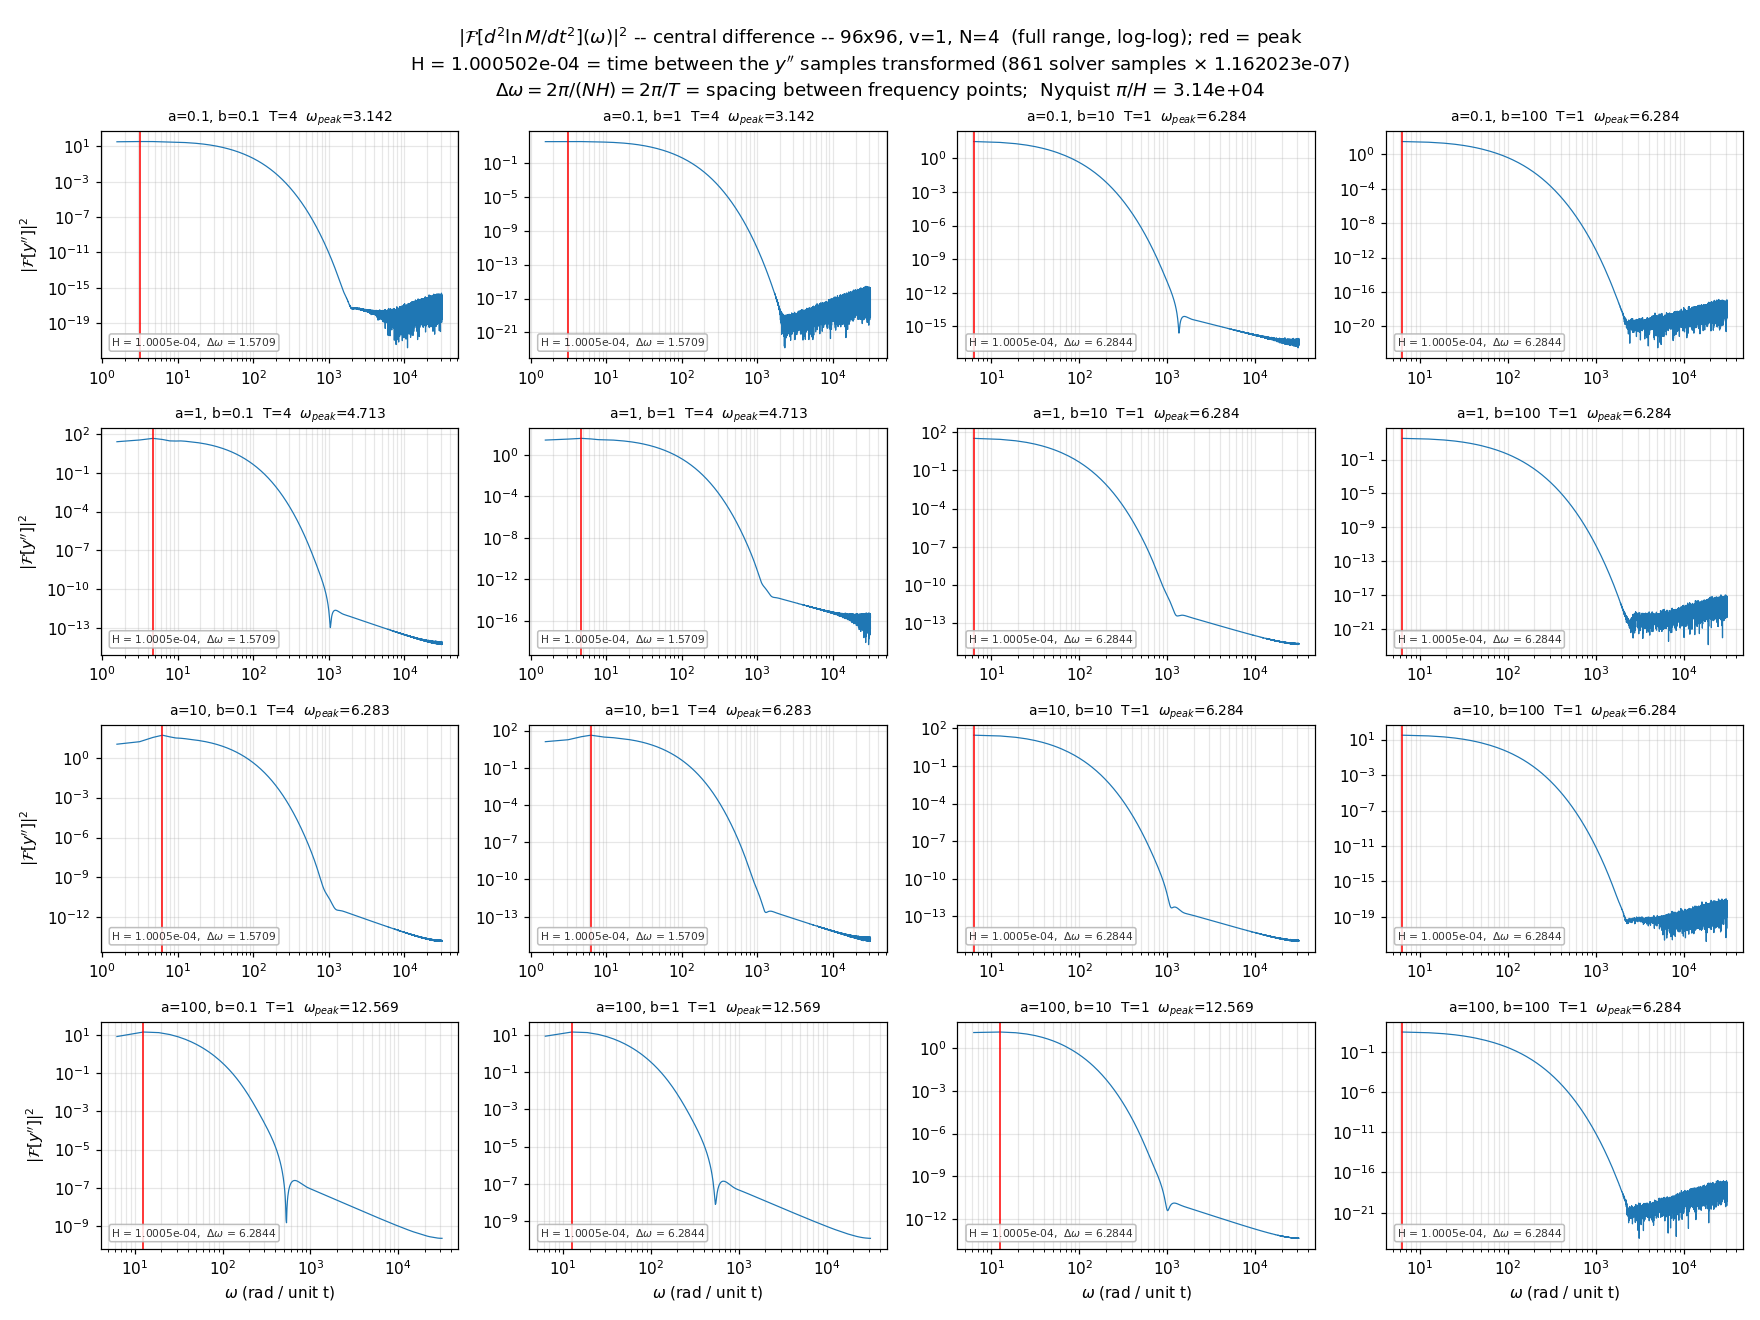
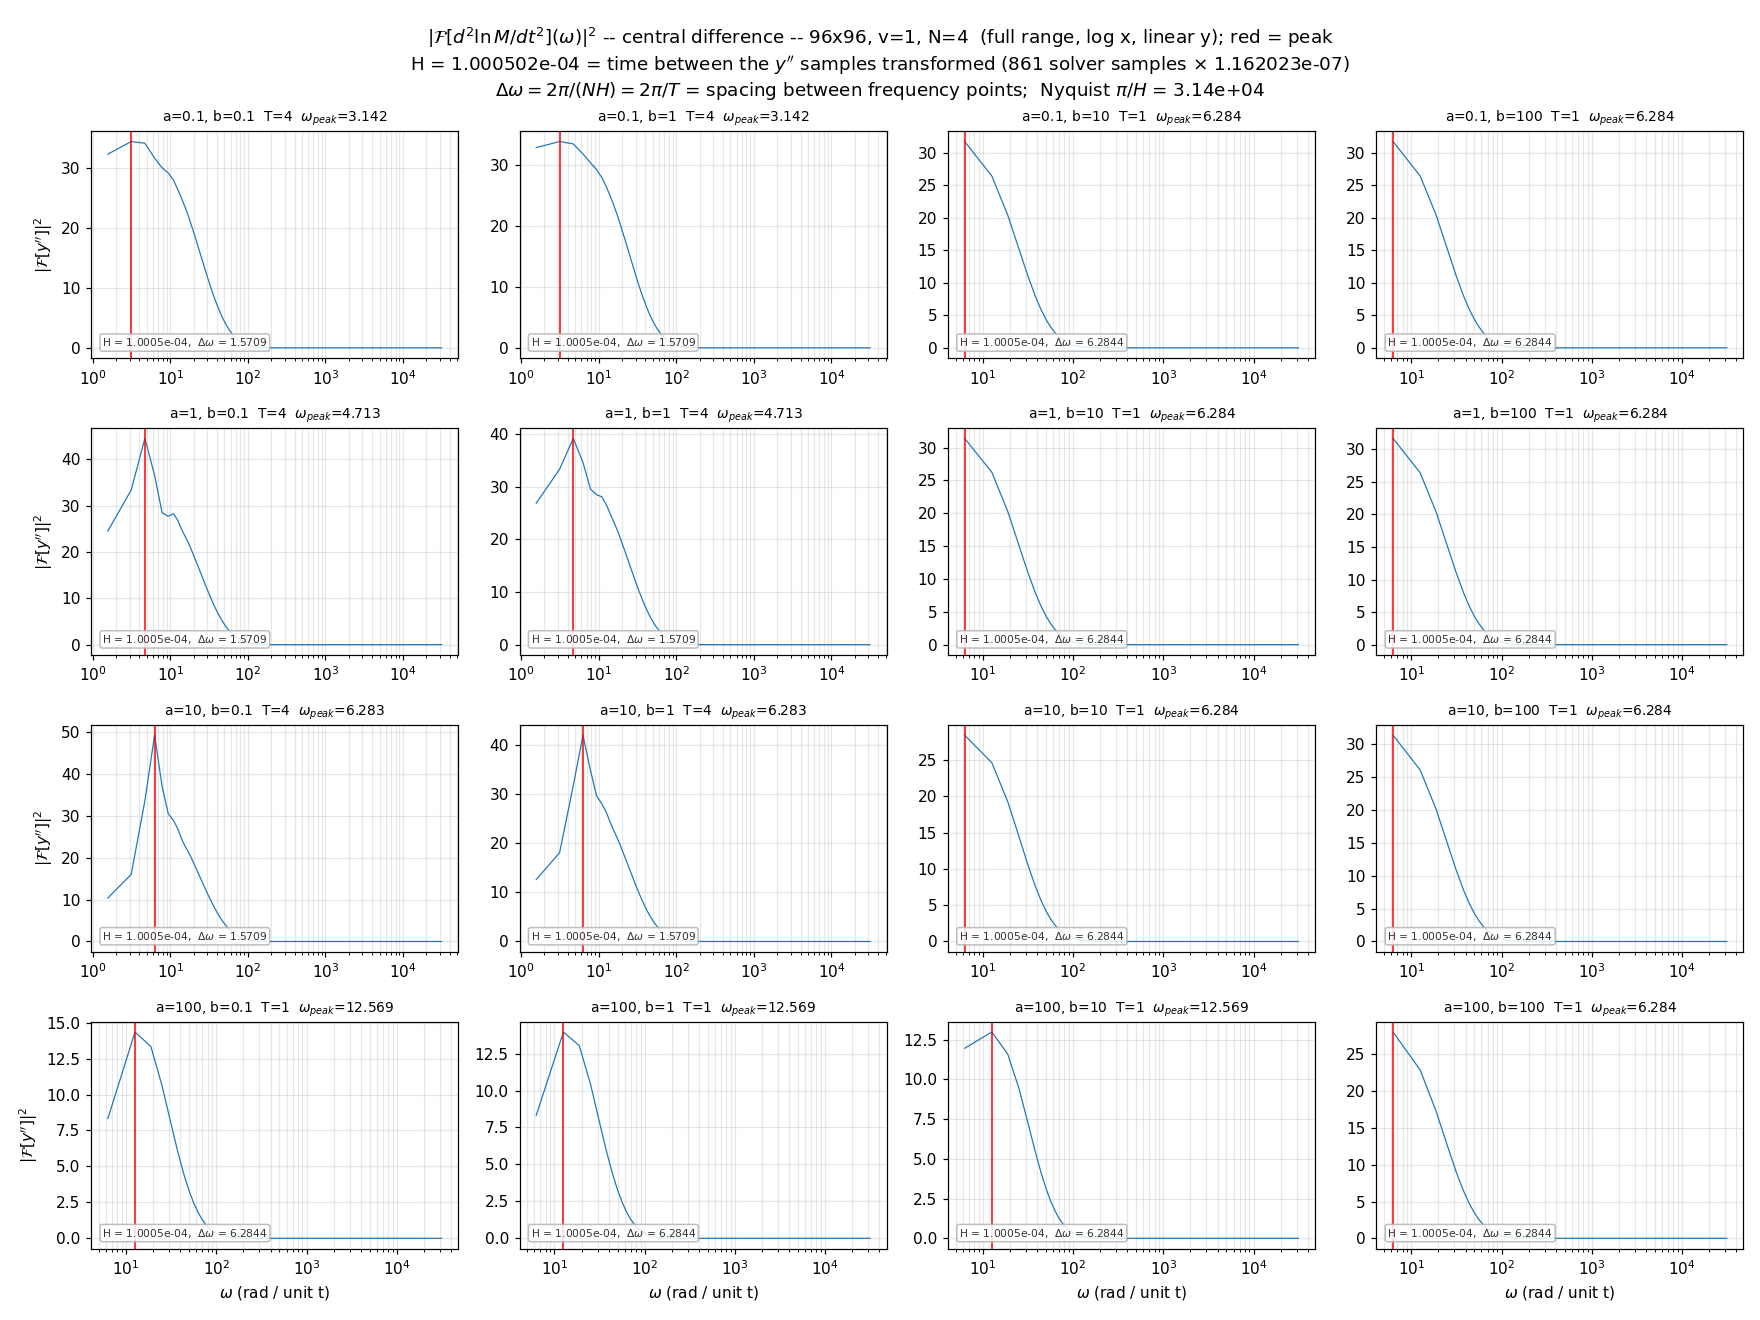
96x96 tau = 0.01 study: PSD figures on a linear y-axis
The full-range spectra are now log x, linear y, and the peak zooms are linear
on both axes.

Claude-Session: https://claude.ai/code/session_017FZdfqzkuu7uruq6etL9FZ

diff --git a/results/2026-10-07_ab-grid-96x96_tau0.01/scripts/psd_96.py b/results/2026-10-07_ab-grid-96x96_tau0.01/scripts/psd_96.py
@@ -109,11 +109,11 @@ for key, label, stem in methods:
                 if zoom:
                     # neighbourhood of the peak: ZOOM_BINS bins either side
                     lo, hi = max(1, kp - ZOOM_BINS), kp + ZOOM_BINS + 1
-                    ax.semilogy(r["w"][lo:hi], r[key][lo:hi], lw=1.0, color="C0",
+                    ax.plot(r["w"][lo:hi], r[key][lo:hi], lw=1.0, color="C0",
                                 marker=".", ms=4)
                     ax.set_xlim(r["w"][lo], r["w"][hi - 1])
                 else:
-                    ax.loglog(r["w"][1:], r[key][1:], lw=0.8, color="C0")
+                    ax.semilogx(r["w"][1:], r[key][1:], lw=0.8, color="C0")
                     ax.text(0.03, 0.04, rf"H = {H:.4e},  $\Delta\omega$ = {r['w'][1]:.4f}",
                             transform=ax.transAxes, ha="left", va="bottom", fontsize=7,
                             color="0.2", bbox=dict(boxstyle="round,pad=0.2", fc="white",
@@ -129,7 +129,7 @@ for key, label, stem in methods:
                 if j == 0:
                     ax.set_ylabel(r"$|\mathcal{F}[y'']|^2$")
         rng = (rf"zoom: $\pm${ZOOM_BINS} bins ($\Delta\omega = 2\pi/T$) about the peak" if zoom
-               else "full range, log-log")
+               else "full range, log x, linear y")
         head =(rf"$|\mathcal{{F}}[d^2\ln M/dt^2](\omega)|^2$ -- {label} -- "
                 f"96x96, v=1, N=4  ({rng}); red = peak")
         if not zoom:

diff --git a/results/2026-10-07_ab-grid-96x96_tau0.01/README.md b/results/2026-10-07_ab-grid-96x96_tau0.01/README.md
@@ -84,11 +84,13 @@ difference above, and the second derivative of a Chebyshev fit of ln M on
 [0, T]. P(ω) = |H Σ y″(t_n) e^{−iωt_n}|², no window, ω in rad per unit t.
 
 - `psd_central_difference_96x96_full.png`, `psd_chebyshev_96x96_full.png` —
-  full range up to Nyquist (π/H ≈ 3.1e4), log-log; red line at the peak, the
-  largest |F|² over the plotted bins k ≥ 1 (ω = 0 is off the log axis), value
-  in each panel title; H (time between the transformed y″ samples), Δω =
-  2π/T (spacing between frequency points) and π/H in the title and each panel
-- `..._peak_zoom.png` — the same spectra, ±8 bins (Δω = 2π/T) about the peak
+  full range up to Nyquist (π/H ≈ 3.1e4), log x, linear y; red line at the
+  peak, the largest |F|² over the plotted bins k ≥ 1 (ω = 0 is off the log
+  axis), value in each panel title; H (time between the transformed y″
+  samples), Δω = 2π/T (spacing between frequency points) and π/H in the title
+  and each panel
+- `..._peak_zoom.png` — the same spectra, ±8 bins (Δω = 2π/T) about the peak,
+  both axes linear
 - `psd_peaks_96x96.csv` — ω_peak per pair and method; `psd_96x96.npz` (ω and
   both spectra per pair), `psd_summary_96x96.csv` (Chebyshev degree and
   residual, and how far its y″ is from the central difference)
